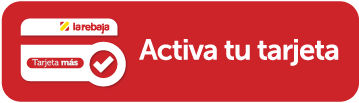
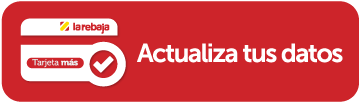
Actualización de tarjeta más, y redención en premios para los que aplican al elaborar un cuestionario

diff --git a/modules/intranet/modules/formacioncomunicaciones/models/Premio.php b/modules/intranet/modules/formacioncomunicaciones/models/Premio.php
@@ -44,7 +44,7 @@ class Premio extends \yii\db\ActiveRecord
         return [
             [['descripcionPremio'], 'string'],
             [['idCategoria', 'puntosRedimir', 'estado', 'cantidad'], 'integer'],
-            [['fechaInicioVigencia', 'fechaFinVigencia', 'fechaCreacion', 'fechaActualizacion'], 'safe'],
+            [['fechaInicioVigencia', 'fechaFinVigencia', 'fechaCreacion', 'fechaActualizacion', 'idCuestionario'], 'safe'],
             [['nombrePremio', 'rutaImagen'], 'string', 'max' => 100],
             [['idCategoria'], 'exist', 'skipOnError' => true, 'targetClass' => CategoriasPremios::className(), 'targetAttribute' => ['idCategoria' => 'idCategoria']],
         ];
@@ -60,6 +60,7 @@ class Premio extends \yii\db\ActiveRecord
             'nombrePremio' => 'Nombre Premio',
             'descripcionPremio' => 'Descripcion Premio',
             'idCategoria' => 'Id Categoria',
+        	'idCuestionario' => 'Id Cuestionario',
             'puntosRedimir' => 'Puntos Redimir',
             'estado' => 'Estado',
             'cantidad' => 'Cantidad',
@@ -79,6 +80,11 @@ class Premio extends \yii\db\ActiveRecord
         return $this->hasOne(CategoriasPremios::className(), ['idCategoria' => 'idCategoria']);
     }
     
+    public function getObjCuestionario()
+    {
+    	return $this->hasOne(Cuestionario::className(), ['idCuestionario' => 'idCuestionario']);
+    }
+    
     public function guardarImagen($rutaAnterior)
     {
     	$imagen = UploadedFile::getInstance($this, 'rutaImagen'); // si no selecciona nada pone null
@@ -96,14 +102,12 @@ class Premio extends \yii\db\ActiveRecord
     	$fecha = new \DateTime;
     
     	return self::find()->where(
-    			" fechaInicioVigencia<=:fecha AND fechaFinVigencia>=:fecha AND idCategoria=:categoria AND tipoRedimir=:tipo AND cantidad>:cantidad AND estado=:estado AND tipoRedimir=:tipoRedimir")
+    			" fechaInicioVigencia<=:fecha AND fechaFinVigencia>=:fecha AND idCategoria=:categoria AND cantidad>:cantidad AND estado=:estado")
     			->addParams([':estado' => self::ACTIVO,
     					':fecha' => $fecha->format('Y-m-d H:i:s'),
     					':categoria' => $idCategoria,
-    					':tipo' => 1,
     					':cantidad' => 0,
-    					':estado' => self::ACTIVO,
-    					':tipoRedimir' => self::TIPO_TIENDA
+    					': estado' => self::ACTIVO,
     				])->orderBy('fechaInicioVigencia');
     }
     
@@ -112,14 +116,14 @@ class Premio extends \yii\db\ActiveRecord
     	$fecha = new \DateTime;
     
     	return self::find()->where(
-    			" fechaInicioVigencia<=:fecha AND fechaFinVigencia>=:fecha AND idCuestionario=:cuestionario AND tipoRedimir=:tipo AND cantidad>:cantidad AND estado=:estado AND tipoRedimir=:tipoRedimir")
+    			" fechaInicioVigencia<=:fecha AND fechaFinVigencia>=:fecha AND idCuestionario=:cuestionario AND tipoRedimir=:tipo AND cantidad>:cantidad AND estado=:estado")
     			->addParams([':estado' => self::ACTIVO,
     					':fecha' => $fecha->format('Y-m-d H:i:s'),
     					':cuestionario' => $idCuestionario,
     					':tipo' => 1,
     					':cantidad' => 0,
     					':estado' => self::ACTIVO,
-    					':tipoRedimir' => self::TIPO_TIENDA
+    					//':tipoRedimir' => self::TIPO_TIENDA
     			])->orderBy('fechaInicioVigencia');
     }    
 }

diff --git a/modules/intranet/modules/formacioncomunicaciones/views/premios/_premio.php b/modules/intranet/modules/formacioncomunicaciones/views/premios/_premio.php
@@ -2,6 +2,7 @@
 /* @var $this yii\web\View */
 use yii\helpers\Html;
 use yii\helpers\Url;
+use app\modules\intranet\modules\formacioncomunicaciones\models\Premio;
 ?>
 <div class='col-sm-4 col-md-4 item' style="margin-top:30px; ">
 	<div class="sub-categoria-item">
@@ -16,9 +17,19 @@ use yii\helpers\Url;
 			<label for="cantidad_<?php echo $model->idPremio?>" class="nowrap">Cantidad
 			    <input class='input-sm input-cantidad' name='cantidad_<?php echo $model->idPremio?>' id='cantidad_<?php echo $model->idPremio?>' value='1'/>
 			</label>
-        	<a href='#' data-role='redimir-premio' data-premio='<?php echo $model->idPremio?>'>
-        		<?= Html::img(Yii::getAlias('@web').'/img/formacioncomunicaciones/assets/redimir.png', ['class' => 'redimir']) ?>
-        	</a> 
+			<?php if($model->tipoRedimir == Premio::TIPO_TIENDA):?>
+	        	<a href='#' data-role='redimir-premio' data-premio='<?php echo $model->idPremio?>'>
+	        		<?= Html::img(Yii::getAlias('@web').'/img/formacioncomunicaciones/assets/redimir.png', ['class' => 'redimir']) ?>
+	        	</a> 
+        	<?php else:?>
+        		<?php if($model->objCuestionario->cuestionarioAprobado()):?>
+        		<a href='#' data-role='redimir-premio' data-premio='<?php echo $model->idPremio?>'>
+	        		<?= Html::img(Yii::getAlias('@web').'/img/formacioncomunicaciones/assets/redimir.png', ['class' => 'redimir']) ?>
+	        	</a>
+	        	<?php else:?>
+        			<?= Html::img(Yii::getAlias('@web').'/img/formacioncomunicaciones/assets/redimir.png', ['class' => 'redimir']) ?>
+	        	<?php endif;?>
+        	<?php endif;?>
 		</div>
 	</div>
 </div>

diff --git a/modules/tarjetamas/controllers/UsuarioController.php b/modules/tarjetamas/controllers/UsuarioController.php
@@ -1,7 +1,7 @@
 <?php
 
 namespace app\modules\tarjetamas\controllers;
-
+ 
 use Yii;
 use yii\web\Controller;
 use app\modules\tarjetamas\models\formularios\LoginForm;
@@ -229,15 +229,8 @@ class UsuarioController extends Controller {
         if ($_POST != null) {
             $cedula = \Yii::$app->user->identity->numeroDocumento;
             $numeroTarjeta = $_POST['numeroTarjeta'];
-            $tarjetasUsuario = UsuarioTarjetaMas::callWSConsultarTarjetasAbonado($cedula);
-
-            $principal = "";
-            foreach ($tarjetasUsuario as $tarjeta) {
-                if ($tarjeta['PRINCIPAL'] == "SI") {
-                    $principal = $tarjeta["NUMEROTARJETA"];
-                }
-            }
-            $respuesta = UsuarioTarjetaMas::callWSCambiarTarjetaPrimaria($principal, $cedula, $numeroTarjeta);
+            
+            $respuesta = UsuarioTarjetaMas::callWSCambiarTarjetaPrimaria($cedula, $numeroTarjeta);
 
             if ($respuesta[0]['CODIGO'] == 1) {
                 Yii::$app->session->setFlash('success', "La tarjeta $numeroTarjeta ha sido marca como principal");

diff --git a/modules/tarjetamas/models/UsuarioTarjetaMas.php b/modules/tarjetamas/models/UsuarioTarjetaMas.php
@@ -184,7 +184,7 @@ class UsuarioTarjetaMas extends \yii\db\ActiveRecord
     }
     
     
-    public static function callWSCambiarTarjetaPrimaria($NumeroTarjetaPrimaria, $NumeroIdentificacion, $NumeroTarjetaNueva){
+    public static function callWSCambiarTarjetaPrimaria($NumeroIdentificacion, $NumeroTarjetaNueva){
         $client = new \SoapClient(\Yii::$app->params['webServices']['tarjetaMas'], array(
           "trace" => 1,
           "exceptions" => 0,
@@ -194,7 +194,8 @@ class UsuarioTarjetaMas extends \yii\db\ActiveRecord
 
       try {
           $codigoSeguridad = sha1(\Yii::$app->params['webServices']['codigoSeguridad']);
-          $result = $client->CambiarTarjetaPrimaria($codigoSeguridad, $NumeroTarjetaPrimaria, $NumeroIdentificacion, $NumeroTarjetaNueva);
+        //  $result = $client->CambiarTarjetaPrimaria($codigoSeguridad, $NumeroTarjetaPrimaria, $NumeroIdentificacion, $NumeroTarjetaNueva);
+          $result = $client->activarTarjetaPrimaria($codigoSeguridad, $NumeroTarjetaNueva, $NumeroIdentificacion);
           return $result;
 
       } catch (SoapFault $ex) {

diff --git a/modules/intranet/modules/formacioncomunicaciones/views/premios/_form.php b/modules/intranet/modules/formacioncomunicaciones/views/premios/_form.php
@@ -5,6 +5,8 @@ use yii\widgets\ActiveForm;
 use kartik\file\FileInput;
 use kartik\select2\Select2;
 use kartik\date\DatePicker;
+use yii\helpers\ArrayHelper;
+use app\modules\intranet\modules\formacioncomunicaciones\models\Cuestionario;
 
 
 /* @var $this yii\web\View */
@@ -29,6 +31,14 @@ use kartik\date\DatePicker;
       ],
     ]); ?>
     <?= $form->field($model, 'numeroPremios')->textInput(['maxlength' => true]) ?>
+    <?php $cuestionarios = Cuestionario::findAll(['estado' => Cuestionario::ESTADO_ACTIVO]);?>
+    <?php echo $form->field($model, 'idCuestionario')->widget(Select2::classname(), [
+          'data' => ArrayHelper::map($cuestionarios, 'idCuestionario','tituloCuestionario'),
+          'options' => ['placeholder' => 'Selecione ...'],
+          'pluginOptions' => [
+              'allowClear' => true
+          ],
+        ]);?>
     <?php if ($model->isNewRecord): ?>
         <?= $form->field($model, 'rutaImagen')->widget(FileInput::classname(), [
             'options' => ['accept' => 'image/*'],

diff --git a/modules/intranet/modules/formacioncomunicaciones/models/Cuestionario.php b/modules/intranet/modules/formacioncomunicaciones/models/Cuestionario.php
@@ -272,7 +272,10 @@ class Cuestionario extends \yii\db\ActiveRecord
 	    	return $preguntasCuestionario;
     }
     
-    public function cuestionarioAprobado($numeroDocumento){
+    public function cuestionarioAprobado($numeroDocumento = null){
+    	if(is_null($numeroDocumento)){
+    		$numeroDocumento = Yii::$app->user->identity->numeroDocumento;
+    	}
     	$cuestionarioUsuario = CuestionarioUsuario::find()->where(new Expression("porcentajeObtenido >= $this->porcentajeMinimo"))->andFilterWhere(['idCuestionario' => $this->idCuestionario, 'numeroDocumento' => $numeroDocumento])->one();
     
     	return $cuestionarioUsuario ? true:false;
@@ -282,5 +285,7 @@ class Cuestionario extends \yii\db\ActiveRecord
     	return round(CuestionarioUsuario::find()->where(['idCuestionario' => $this->idCuestionario, 'numeroDocumento' => $numeroDocumento])->select('max(porcentajeObtenido)')->scalar(),2);
     	
     }
+    
+    
     
 }

diff --git a/modules/tarjetamas/views/usuario/tarjetas.php b/modules/tarjetamas/views/usuario/tarjetas.php
@@ -33,7 +33,7 @@ use yii\helpers\Html;
                         ['attribute' => 'FECHAACTIVACION', 'label' => "Fecha de activación"],
                         ['attribute' => 'FECHAVENCIMIENTO', 'label' => "Fecha de vencimiento"],
                         ['attribute' => 'DESCUENTOSDISPONIBLES', 'label' => "Descuentos Disponibles"],
-                        ['attribute' => 'PRIMARIA', 'label' => "Principal"],
+                        ['attribute' => 'PRINCIPAL', 'label' => "Principal"],
                         ['content' => function ($model) {
                                 $html = Html::beginForm(['ver'], 'post', ['id' => 'form-ver']);
                                 $html.= Html::input('hidden', 'numeroTarjeta', $model['NUMEROTARJETA']);

diff --git a/modules/intranet/modules/formacioncomunicaciones/views/cuestionario/_form.php b/modules/intranet/modules/formacioncomunicaciones/views/cuestionario/_form.php
@@ -36,7 +36,7 @@ use kartik\select2\Select2;
 	<?php $cursos = Curso::findAll(['estadoCurso' => Curso::ESTADO_ACTIVO]);?>
     <?php $model->estado = $model->isNewRecord ? 1 : $model->estado;  ?>
     <?= $form->field($model, 'estado')->dropDownList(['0' => 'Inactivo', '1' => 'Activo']); ?>
-    <?php echo $form->field($model, 'idCurso')->widget(Select2::classname(), [
+    <?php echo $form->field($model, 'idCuestionario')->widget(Select2::classname(), [
           'data' => ArrayHelper::map($cursos, 'idCurso','nombreCurso'),
           'options' => ['placeholder' => 'Selecione ...'],
           'pluginOptions' => [

diff --git a/modules/tarjetamas/views/sitio/index.php b/modules/tarjetamas/views/sitio/index.php
@@ -25,7 +25,7 @@ $srctarjetamas = Yii::$app->homeUrl . 'img/multiportal/tarjetamas';
     <div class="row">
       <div class="col-sm-4">
         <div class="postLeft white-item">  
-            <?= Html::a('<img class="img-responsive hover-img" src="'.$srctarjetamas.'/activa-tu-tarjeta.png"  alt="Activa tu tarjeta">', ['/tarjetamas/usuario/registro']) ?>
+            <?= Html::a('<img class="img-responsive hover-img" src="'.$srctarjetamas.'/activa-tu-tarjeta.png"  alt="Actualiza tus datos">', ['/tarjetamas/usuario/registro']) ?>
         </div>
       </div>
       <div class="col-sm-4">

diff --git a/modules/tarjetamas/views/usuario/index.php b/modules/tarjetamas/views/usuario/index.php
@@ -25,7 +25,7 @@ $this->title = 'Tarjeta Mas';
             <li role="presentation">
               <?=   Html::a('Cerrar sesión', ['salir'],['aria-controls' => "ver-tarjetas", ]);?>
             </li>
-  </ul>
+          </ul>
         </div>
       
 

diff --git a/modules/tarjetamas/models/formularios/LoginForm.php b/modules/tarjetamas/models/formularios/LoginForm.php
@@ -1,5 +1,5 @@
 <?php
-
+ 
 namespace app\modules\tarjetamas\models\formularios;
 
 use Yii;
